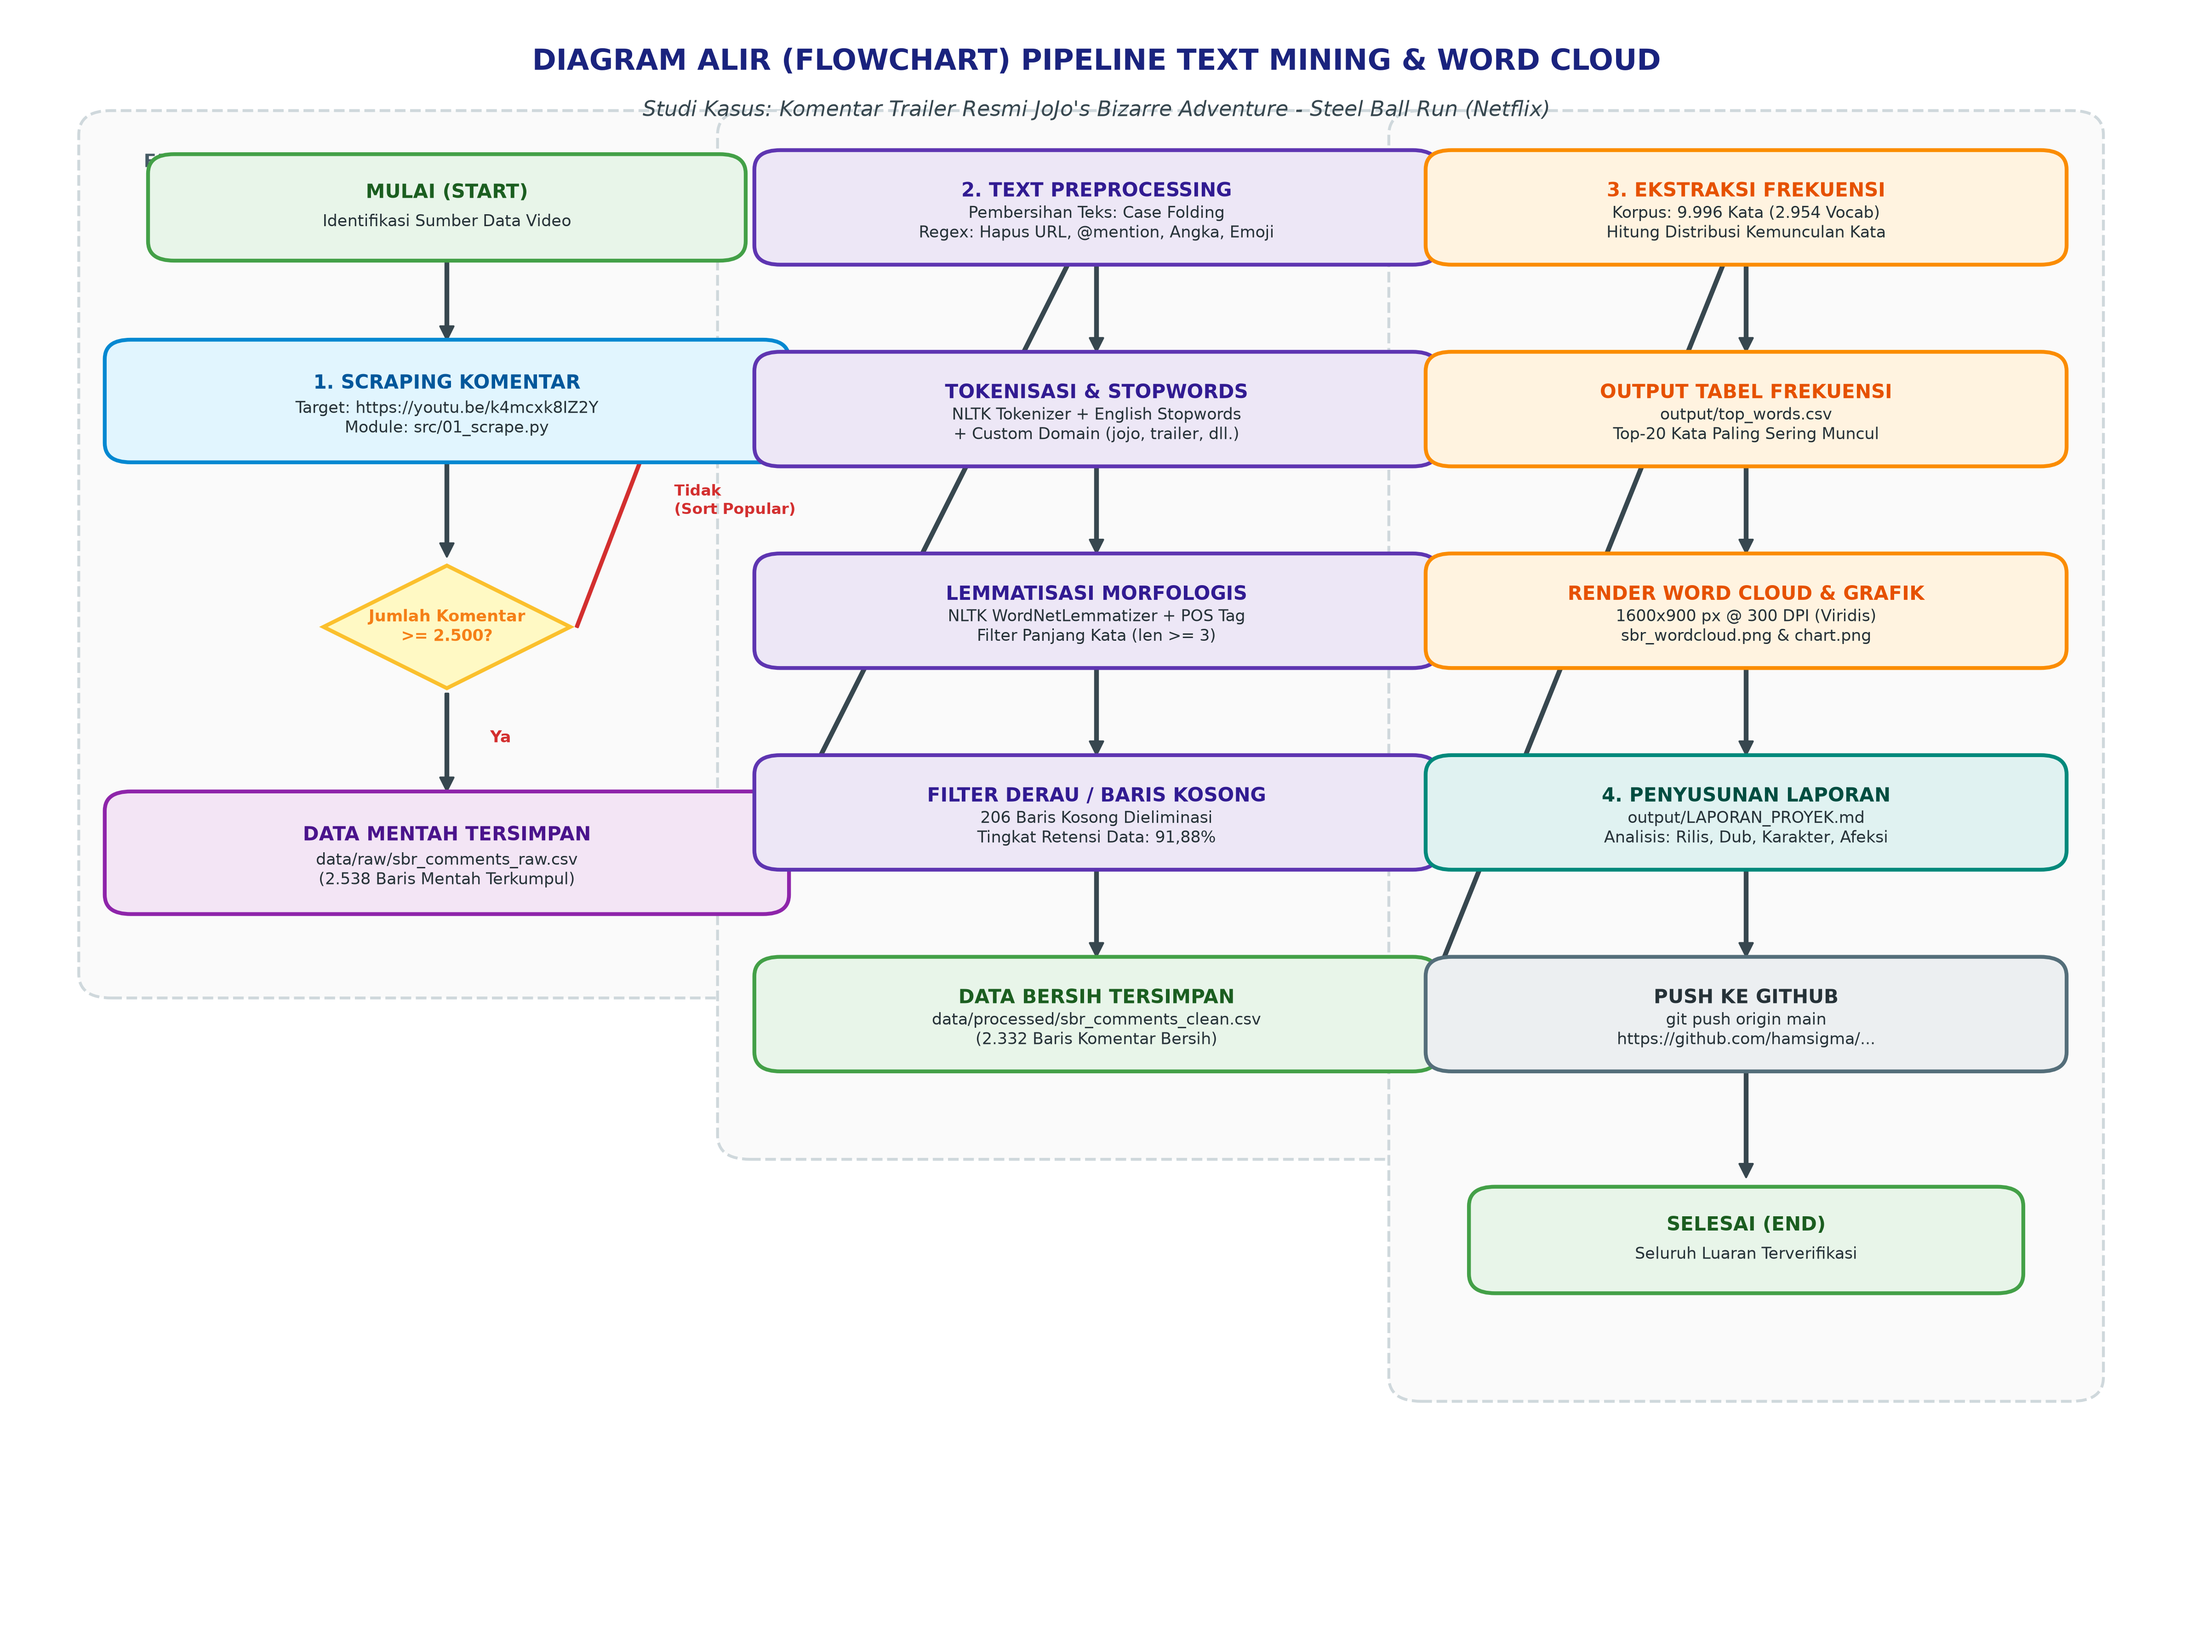
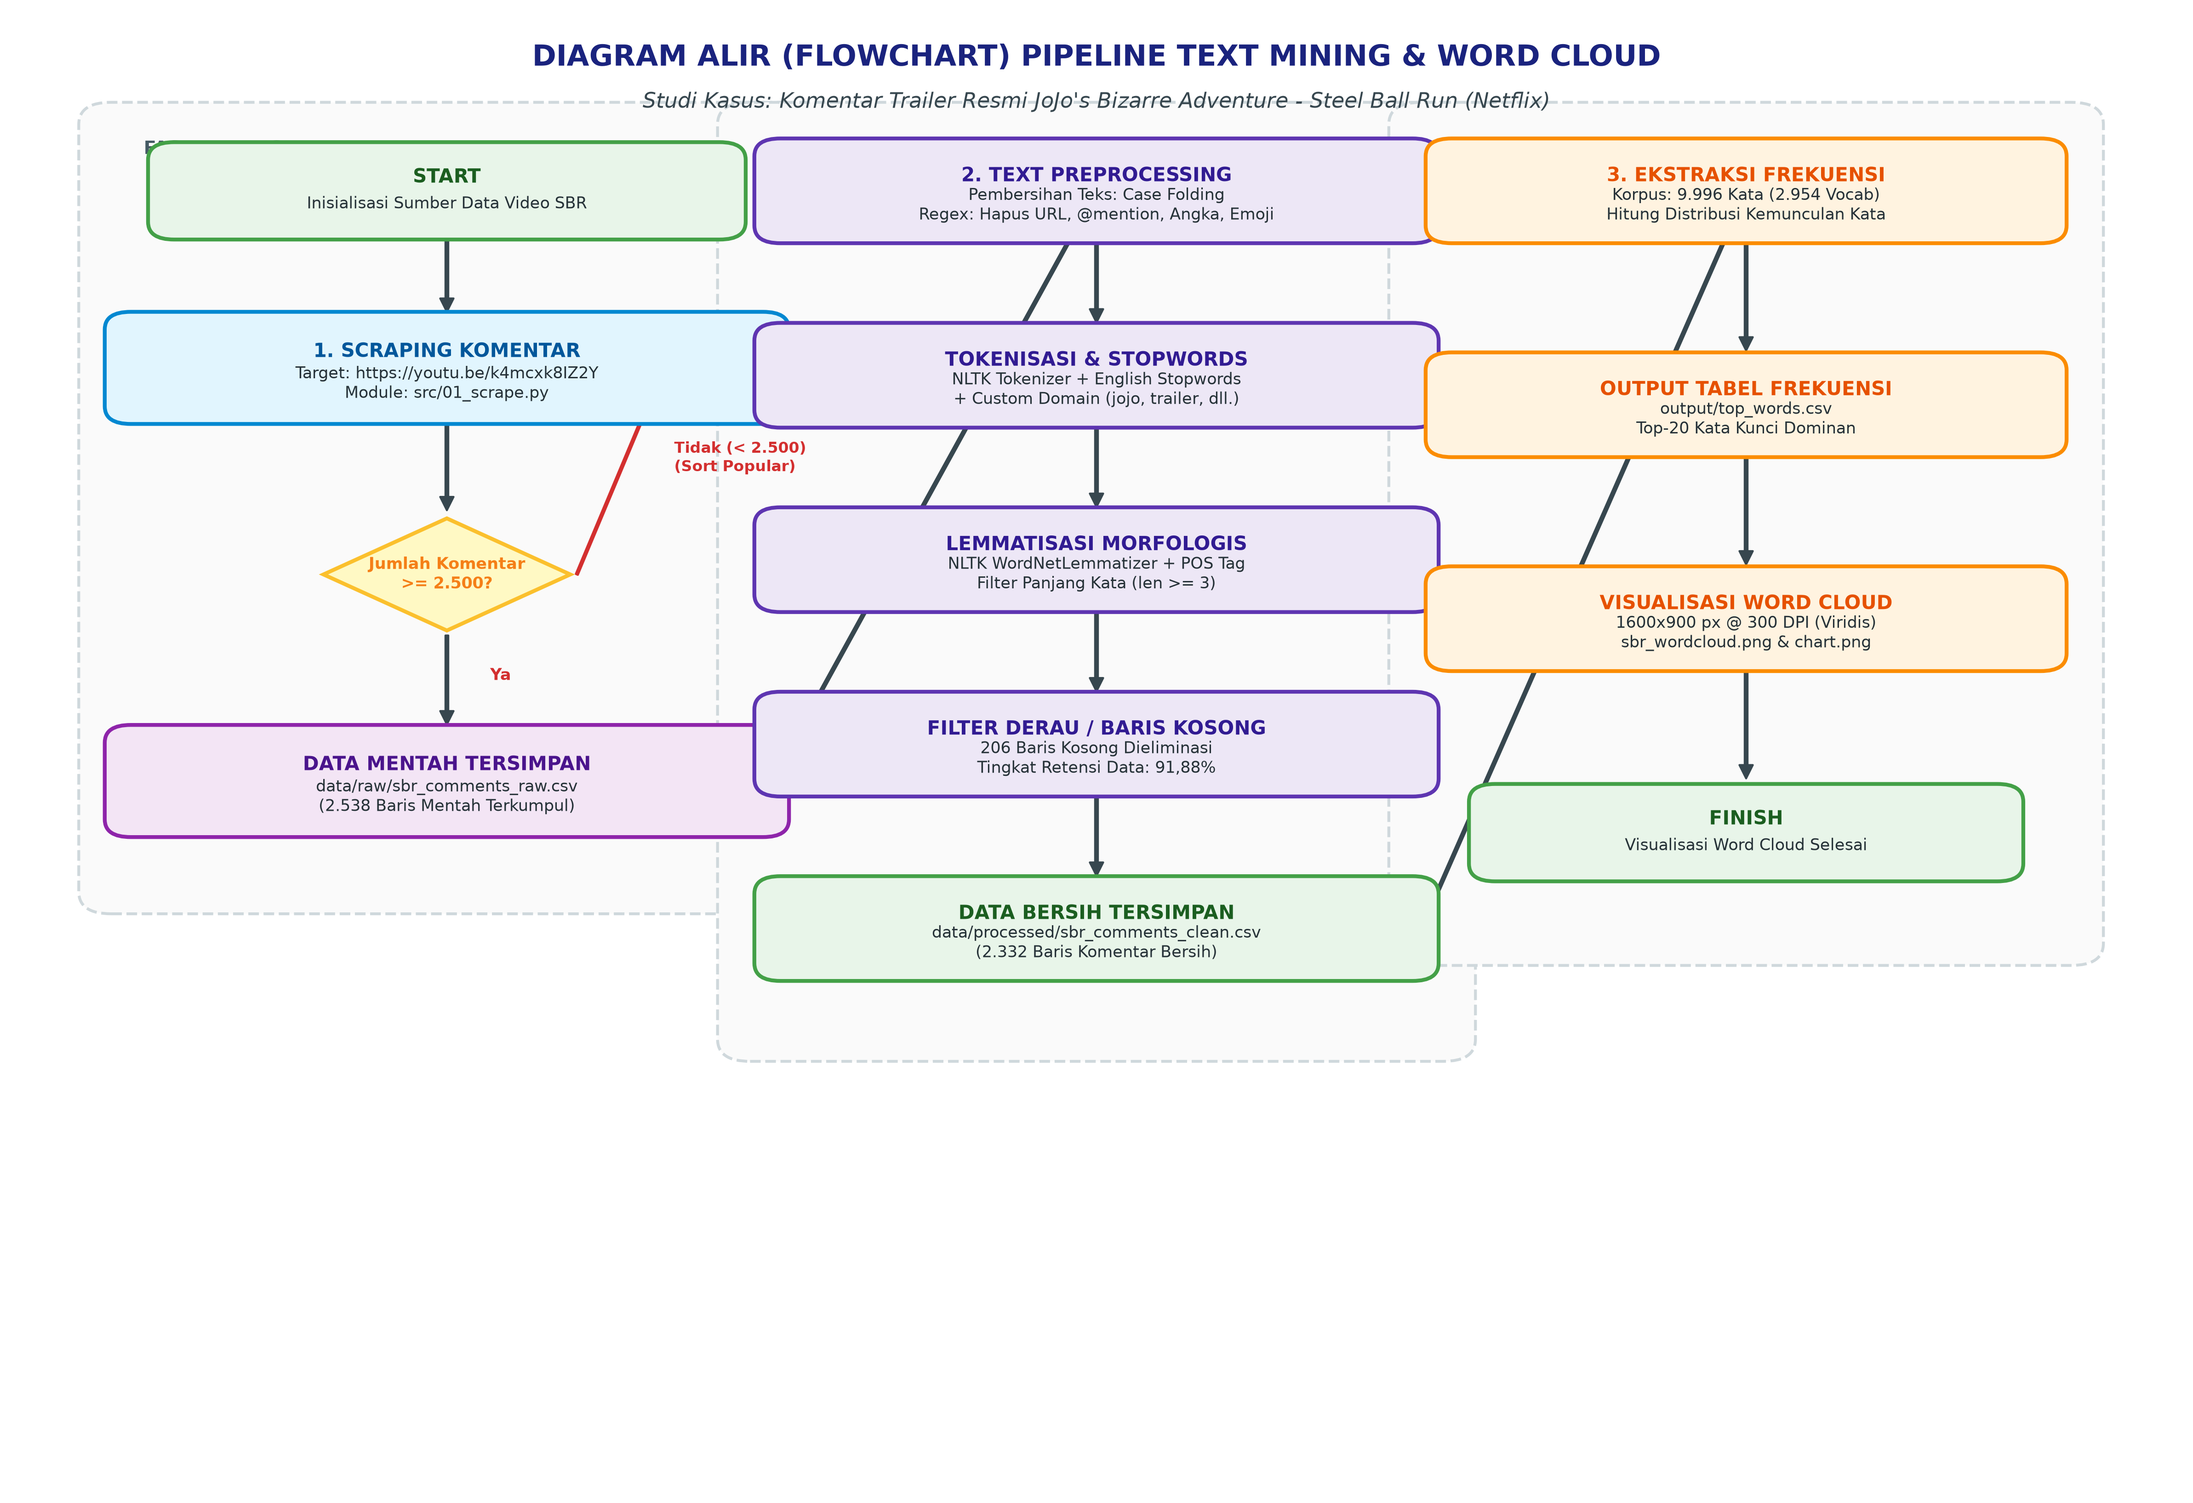
docs: update detailed flowchart to start with Start and finish at Word Cloud

diff --git a/src/generate_flowchart.py b/src/generate_flowchart.py
@@ -1,6 +1,7 @@
 """
 Script: Generate Publication-Grade Pipeline Flowchart Diagram
 Output: output/pipeline_flowchart.png (High Resolution, 300 DPI)
+Flow: START -> Scraping (with loop) -> Preprocessing -> Word Cloud Visualization -> FINISH
 """
 
 import os
@@ -10,8 +11,8 @@ import matplotlib.patches as patches
 def draw_flowchart(output_path="output/pipeline_flowchart.png"):
     os.makedirs(os.path.dirname(output_path), exist_ok=True)
     
-    # Ukuran kanvas proporsional (16:10)
-    fig, ax = plt.subplots(figsize=(16, 12), dpi=300)
+    # Kanvas proporsional (16:11)
+    fig, ax = plt.subplots(figsize=(16, 11), dpi=300)
     ax.set_xlim(0, 100)
     ax.set_ylim(0, 100)
     ax.axis("off")
@@ -57,8 +58,10 @@ def draw_flowchart(output_path="output/pipeline_flowchart.png"):
         if label:
             ax.text((x1+x2)/2 + 2, (y1+y2)/2, label, fontsize=8.5, fontweight="bold", color="#d32f2f", zorder=4)
 
-    # 1. Start Node (Kolom Kiri - Mulai & Scraping)
-    add_box(20, 88, 26, 5, "MULAI (START)", "Identifikasi Sumber Data Video", "#e8f5e9", "#43a047", "#1b5e20")
+    # ==========================================
+    # 1. FASE 1: PENGUMPULAN DATA (KOLOM KIRI)
+    # ==========================================
+    add_box(20, 88, 26, 5, "START", "Inisialisasi Sumber Data Video SBR", "#e8f5e9", "#43a047", "#1b5e20")
     
     add_arrow(20, 85.5, 20, 79.5)
     add_box(20, 76, 30, 6, "1. SCRAPING KOMENTAR", "Target: https://youtu.be/k4mcxk8IZ2Y\nModule: src/01_scrape.py", "#e1f5fe", "#0288d1", "#01579b")
@@ -66,10 +69,10 @@ def draw_flowchart(output_path="output/pipeline_flowchart.png"):
     add_arrow(20, 73, 20, 66)
     add_decision(20, 62, 3.8, "Jumlah Komentar\n>= 2.500?", "#fff9c4", "#fbc02d", "#f57f17")
     
-    # Cabang Decision (Tidak)
+    # Cabang Decision (Tidak: Loop Kembali ke Scraping)
     ax.annotate("", xy=(30, 76), xytext=(26, 62),
                 arrowprops=dict(facecolor="#d32f2f", edgecolor="#d32f2f", width=1.2, headwidth=6, headlength=6), zorder=1)
-    ax.text(30.5, 69, "Tidak\n(Sort Popular)", fontsize=8, fontweight="bold", color="#d32f2f")
+    ax.text(30.5, 69, "Tidak (< 2.500)\n(Sort Popular)", fontsize=8, fontweight="bold", color="#d32f2f")
 
     # Cabang Decision (Ya)
     add_arrow(20, 58.2, 20, 51.5, "Ya")
@@ -79,7 +82,9 @@ def draw_flowchart(output_path="output/pipeline_flowchart.png"):
     ax.annotate("", xy=(50, 88), xytext=(35, 48),
                 arrowprops=dict(facecolor="#37474f", edgecolor="#37474f", width=1.5, headwidth=7, headlength=7), zorder=1)
 
-    # 2. Preprocessing Nodes (Kolom Tengah)
+    # ==========================================
+    # 2. FASE 2: PREPROCESSING (KOLOM TENGAH)
+    # ==========================================
     add_box(50, 88, 30, 5.5, "2. TEXT PREPROCESSING", "Pembersihan Teks: Case Folding\nRegex: Hapus URL, @mention, Angka, Emoji", "#ede7f6", "#5e35b1", "#311b92")
 
     add_arrow(50, 85.25, 50, 78.75)
@@ -94,27 +99,23 @@ def draw_flowchart(output_path="output/pipeline_flowchart.png"):
     add_arrow(50, 47.75, 50, 41.25)
     add_box(50, 38, 30, 5.5, "DATA BERSIH TERSIMPAN", "data/processed/sbr_comments_clean.csv\n(2.332 Baris Komentar Bersih)", "#e8f5e9", "#43a047", "#1b5e20")
 
-    # Transisi ke Kolom Kanan (Visualisasi & Laporan)
+    # Transisi ke Kolom Kanan (Visualisasi Word Cloud)
     ax.annotate("", xy=(80, 88), xytext=(65, 38),
                 arrowprops=dict(facecolor="#37474f", edgecolor="#37474f", width=1.5, headwidth=7, headlength=7), zorder=1)
 
-    # 3. Visualisasi & Laporan Nodes (Kolom Kanan)
+    # ==========================================
+    # 3. FASE 3: ANALISIS & WORD CLOUD (KOLOM KANAN)
+    # ==========================================
     add_box(80, 88, 28, 5.5, "3. EKSTRAKSI FREKUENSI", "Korpus: 9.996 Kata (2.954 Vocab)\nHitung Distribusi Kemunculan Kata", "#fff3e0", "#fb8c00", "#e65100")
 
-    add_arrow(80, 85.25, 80, 78.75)
-    add_box(80, 75.5, 28, 5.5, "OUTPUT TABEL FREKUENSI", "output/top_words.csv\nTop-20 Kata Paling Sering Muncul", "#fff3e0", "#fb8c00", "#e65100")
+    add_arrow(80, 85.25, 80, 76.75)
+    add_box(80, 73.5, 28, 5.5, "OUTPUT TABEL FREKUENSI", "output/top_words.csv\nTop-20 Kata Kunci Dominan", "#fff3e0", "#fb8c00", "#e65100")
 
-    add_arrow(80, 72.75, 80, 66.25)
-    add_box(80, 63, 28, 5.5, "RENDER WORD CLOUD & GRAFIK", "1600x900 px @ 300 DPI (Viridis)\nsbr_wordcloud.png & chart.png", "#fff3e0", "#fb8c00", "#e65100")
+    add_arrow(80, 70.75, 80, 62.25)
+    add_box(80, 59, 28, 5.5, "VISUALISASI WORD CLOUD", "1600x900 px @ 300 DPI (Viridis)\nsbr_wordcloud.png & chart.png", "#fff3e0", "#fb8c00", "#e65100")
 
-    add_arrow(80, 60.25, 80, 53.75)
-    add_box(80, 50.5, 28, 5.5, "4. PENYUSUNAN LAPORAN", "output/LAPORAN_PROYEK.md\nAnalisis: Rilis, Dub, Karakter, Afeksi", "#e0f2f1", "#00897b", "#004d40")
-
-    add_arrow(80, 47.75, 80, 41.25)
-    add_box(80, 38, 28, 5.5, "PUSH KE GITHUB", "git push origin main\nhttps://github.com/hamsigma/...", "#eceff1", "#546e7a", "#263238")
-
-    add_arrow(80, 35.25, 80, 27.5)
-    add_box(80, 24, 24, 5, "SELESAI (END)", "Seluruh Luaran Terverifikasi", "#e8f5e9", "#43a047", "#1b5e20")
+    add_arrow(80, 56.25, 80, 47.75)
+    add_box(80, 44.5, 24, 5, "FINISH", "Visualisasi Word Cloud Selesai", "#e8f5e9", "#43a047", "#1b5e20")
 
     # Container Box / Grouping Visual
     def add_group_box(x, y, w, h, title, bg_color="#fafafa", border_color="#cfd8dc"):
@@ -128,13 +129,12 @@ def draw_flowchart(output_path="output/pipeline_flowchart.png"):
 
     add_group_box(4, 40, 32, 53, "FASE 1: PENGUMPULAN DATA")
     add_group_box(33.5, 30, 33, 63, "FASE 2: NLP PREPROCESSING")
-    add_group_box(64.5, 15, 31, 78, "FASE 3: ANALISIS & LUARAN")
+    add_group_box(64.5, 36.5, 31, 56.5, "FASE 3: ANALISIS & VISUALISASI WORD CLOUD")
 
     plt.tight_layout()
     plt.savefig(output_path, dpi=300, bbox_inches="tight")
     plt.close()
-    print(f"[SUKSES] Flowchart resolusi tinggi berhasil disimpan di: {output_path}")
+    print(f"[SUKSES] Flowchart resolusi tinggi berhasil diperbarui di: {output_path}")
 
 if __name__ == "__main__":
     draw_flowchart()
-

diff --git a/output/LAPORAN_PROYEK.md b/output/LAPORAN_PROYEK.md
@@ -108,7 +108,7 @@ Arsitektur modular menyeluruh yang memperlihatkan dekomposisi tiap fase teknis d
 ```mermaid
 flowchart TD
     subgraph Fase1 ["Fase 1: Pengumpulan Data (Scraping)"]
-        A["Mulai (Start)"] --> B["URL Target: https://youtu.be/k4mcxk8IZ2Y"]
+        A([Start]) --> B["URL Target: https://youtu.be/k4mcxk8IZ2Y"]
         B --> C["Eksekusi: src/01_scrape.py<br/>(youtube-comment-downloader)"]
         C --> D{"Jumlah Komentar<br/>>= 2.500?"}
         D -- "Tidak" --> C2["Tarik Tambahan Sort Popular"]
@@ -129,16 +129,14 @@ flowchart TD
         N --> O["Simpan Data Bersih:<br/>data/processed/sbr_comments_clean.csv<br/>(2.332 baris, Retensi 91,88%)"]
     end
 
-    subgraph Fase3 ["Fase 3: Visualisasi, Pelaporan, & Publikasi"]
+    subgraph Fase3 ["Fase 3: Analisis Frekuensi & Visualisasi Word Cloud"]
         O --> P["Eksekusi: src/03_visualize.py"]
         P --> Q["Ekstraksi Korpus Kata (9.996 kata, 2.954 vocab)"]
         Q --> R["Hitung Frekuensi: collections.Counter"]
         R --> S["Simpan Top-20 Kata:<br/>output/top_words.csv"]
         R --> T["Render Diagram Batang 300 DPI:<br/>output/top_20_words_chart.png"]
         R --> U["Render Word Cloud 1600x900 @ 300 DPI:<br/>output/sbr_wordcloud.png"]
-        S & T & U --> V["Penyusunan Laporan Proyek:<br/>output/LAPORAN_PROYEK.md"]
-        V --> W["Push ke Repositori GitHub"]
-        W --> X["Selesai (End)"]
+        S & T & U --> V([Finish])
     end
 ```
 

diff --git a/README.md b/README.md
@@ -21,7 +21,7 @@ flowchart TD
 ```mermaid
 flowchart TD
     subgraph Fase1 ["Fase 1: Pengumpulan Data (Scraping)"]
-        A["Mulai"] --> B["URL Target: https://youtu.be/k4mcxk8IZ2Y"]
+        A([Start]) --> B["URL Target: https://youtu.be/k4mcxk8IZ2Y"]
         B --> C["Eksekusi: src/01_scrape.py<br/>(youtube-comment-downloader)"]
         C --> D{"Jumlah Komentar<br/>>= 2.500?"}
         D -- "Tidak" --> C2["Tarik Tambahan Sort Popular"]
@@ -42,15 +42,14 @@ flowchart TD
         N --> O["Simpan Data Bersih:<br/>data/processed/sbr_comments_clean.csv<br/>(2.332 baris, Retensi 91,88%)"]
     end
 
-    subgraph Fase3 ["Fase 3: Visualisasi, Pelaporan, & Publikasi"]
+    subgraph Fase3 ["Fase 3: Analisis Frekuensi & Visualisasi Word Cloud"]
         O --> P["Eksekusi: src/03_visualize.py"]
         P --> Q["Ekstraksi Korpus Kata (9.996 kata, 2.954 vocab)"]
         Q --> R["Hitung Frekuensi: collections.Counter"]
         R --> S["Simpan Top-20 Kata:<br/>output/top_words.csv"]
         R --> T["Render Diagram Batang 300 DPI:<br/>output/top_20_words_chart.png"]
         R --> U["Render Word Cloud 1600x900 @ 300 DPI:<br/>output/sbr_wordcloud.png"]
-        S & T & U --> V["Penyusunan Laporan Proyek:<br/>output/LAPORAN_PROYEK.md"]
-        V --> W["Selesai"]
+        S & T & U --> V([Finish])
     end
 ```
 
